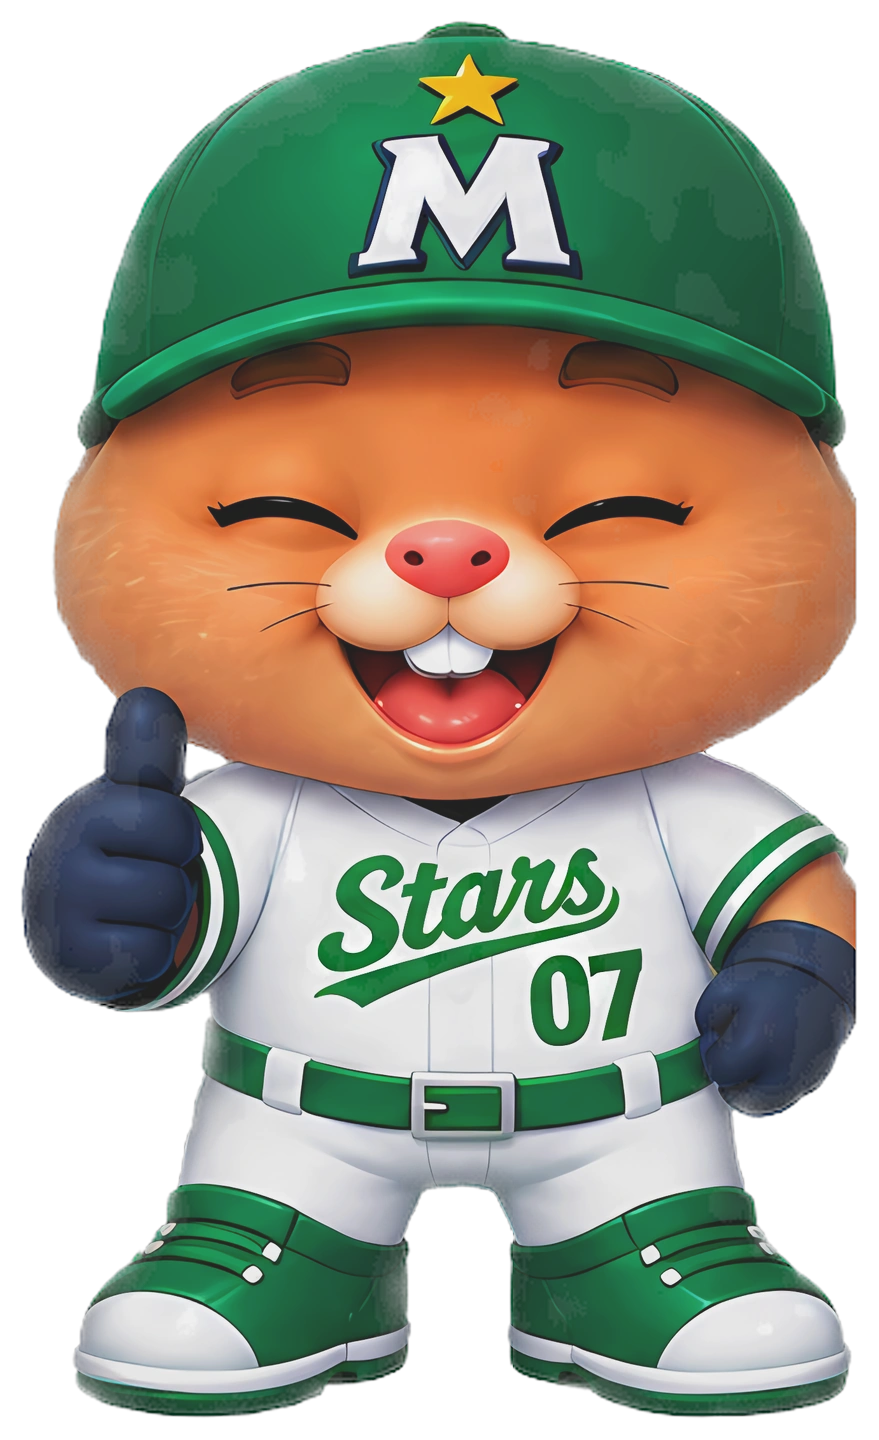
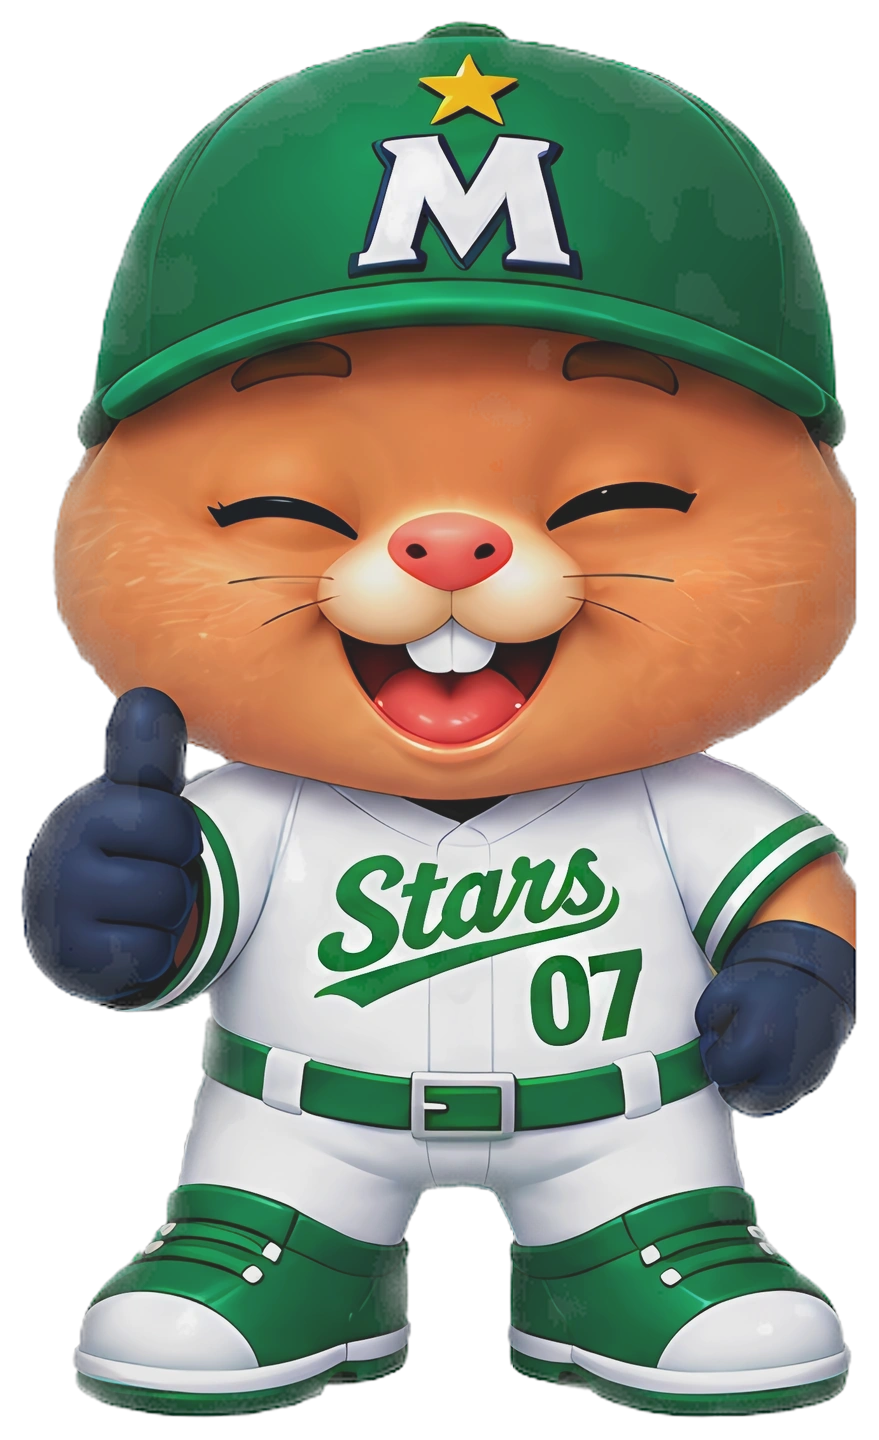
V1406 C: home HD art, selected button on top, workshop fixes, photo HD
- Home: selected mail/settings/items button draws above game boxes
- Home mine art and moles upscaled (Real-ESRGAN, originals kept)
- Stars blink: only the open eye closes (no face jump)
- Workshop: King Punch flipped, cannon recoil, gold Mjolnir spin, costume HD
- Photo studio characters HD (display only)

Claude-Session: https://claude.ai/code/session_01EVXCKBYQFqBEf1u42ToLZp

Changed region(s): [[0.2765, 0.3125, 0.7986, 0.4688], [0.6143, 0.25, 0.6758, 0.2812], [0.3379, 0.25, 0.3993, 0.2812]]

diff --git a/mole/index.html b/mole/index.html
@@ -376,7 +376,7 @@
              하늘은 직접 제작(sky.jpg), 광산·로고·두더지는 바탕화면 "홈화면 개편 UI 및 에셋". -->
         <div id="home-mine" aria-hidden="true">
           <div class="hm-stage">
-            <img class="hm-mine" src="assets/home2/mine.png" alt="">
+            <img class="hm-mine" src="assets/home2/mine-hd.webp" alt="">
             <i class="hm-glow" style="left:3.1%;top:42.3%;--d:0s;--t:2.3s"></i>
             <i class="hm-glow" style="left:10.8%;top:43.5%;--d:0.7s;--t:2.9s"></i>
             <i class="hm-glow" style="left:21.5%;top:35.4%;--d:1.3s;--t:2.1s"></i>
@@ -388,11 +388,11 @@
             <i class="hm-glow" style="left:89.6%;top:31.0%;--d:0.9s;--t:2.4s"></i>
             <i class="hm-glow" style="left:97.6%;top:55.4%;--d:1.4s;--t:3.0s"></i>
             <i class="hm-glow" style="left:21.5%;top:82.9%;--d:0.5s;--t:2.5s"></i>
-            <div class="hm-piece hm-mole hm-pink"><div class="hm-pop"><img class="hm-body" src="assets/home2/mole-pink-x.png" alt=""><i class="hm-lid" style="left:32.12%;top:41.67%;width:11.16%;height:18.23%;--fur:#cf6a35;animation-delay:0.3s"></i><i class="hm-lid" style="left:59.71%;top:41.67%;width:12.22%;height:18.23%;--fur:#cf6a35;animation-delay:0.3s"></i></div></div>
-            <div class="hm-piece hm-mole hm-braid"><div class="hm-pop"><img class="hm-body" src="assets/home2/wave-braid-base.png" alt=""><img class="hm-hand" src="assets/home2/wave-braid-part.png" alt=""><i class="hm-lid" style="left:28.17%;top:32.3%;width:11.54%;height:14.26%;--fur:#cd6734;animation-delay:2.1s"></i><i class="hm-lid" style="left:52.08%;top:34.87%;width:9.48%;height:14.79%;--fur:#cd6734;animation-delay:2.1s"></i></div></div>
-            <div class="hm-piece hm-mole hm-sun"><div class="hm-pop"><img class="hm-body" src="assets/home2/wave-sun-base.png" alt=""><img class="hm-hand" src="assets/home2/wave-sun-part.png" alt=""></div></div>
-            <div class="hm-piece hm-mole hm-punk"><div class="hm-pop"><img class="hm-body" src="assets/home2/mole-punk-x.png" alt=""><i class="hm-lid" style="left:25.13%;top:44.15%;width:13.34%;height:16.37%;--fur:#f08542;animation-delay:1.2s"></i><i class="hm-lid" style="left:63.31%;top:48.07%;width:14.20%;height:15.56%;--fur:#f08542;animation-delay:1.2s"></i></div></div>
-            <div class="hm-piece hm-mole hm-cap"><div class="hm-pop"><img class="hm-body" src="assets/home2/wave-cap-base.png" alt=""><img class="hm-hand" src="assets/home2/wave-cap-part.png" alt=""><i class="hm-lid" style="left:34.80%;top:32.93%;width:19.48%;height:20.88%;--fur:#e6773a;animation-delay:3.0s"></i></div></div>
+            <div class="hm-piece hm-mole hm-pink"><div class="hm-pop"><img class="hm-body" src="assets/home2/mole-pink-x-hd.webp" alt=""><i class="hm-lid" style="left:32.12%;top:41.67%;width:11.16%;height:18.23%;--fur:#cf6a35;animation-delay:0.3s"></i><i class="hm-lid" style="left:59.71%;top:41.67%;width:12.22%;height:18.23%;--fur:#cf6a35;animation-delay:0.3s"></i></div></div>
+            <div class="hm-piece hm-mole hm-braid"><div class="hm-pop"><img class="hm-body" src="assets/home2/wave-braid-base-hd.webp" alt=""><img class="hm-hand" src="assets/home2/wave-braid-part-hd.webp" alt=""><i class="hm-lid" style="left:28.17%;top:32.3%;width:11.54%;height:14.26%;--fur:#cd6734;animation-delay:2.1s"></i><i class="hm-lid" style="left:52.08%;top:34.87%;width:9.48%;height:14.79%;--fur:#cd6734;animation-delay:2.1s"></i></div></div>
+            <div class="hm-piece hm-mole hm-sun"><div class="hm-pop"><img class="hm-body" src="assets/home2/wave-sun-base-hd.webp" alt=""><img class="hm-hand" src="assets/home2/wave-sun-part-hd.webp" alt=""></div></div>
+            <div class="hm-piece hm-mole hm-punk"><div class="hm-pop"><img class="hm-body" src="assets/home2/mole-punk-x-hd.webp" alt=""><i class="hm-lid" style="left:25.13%;top:44.15%;width:13.34%;height:16.37%;--fur:#f08542;animation-delay:1.2s"></i><i class="hm-lid" style="left:63.31%;top:48.07%;width:14.20%;height:15.56%;--fur:#f08542;animation-delay:1.2s"></i></div></div>
+            <div class="hm-piece hm-mole hm-cap"><div class="hm-pop"><img class="hm-body" src="assets/home2/wave-cap-base-hd.webp" alt=""><img class="hm-hand" src="assets/home2/wave-cap-part-hd.webp" alt=""><i class="hm-lid" style="left:34.80%;top:32.93%;width:19.48%;height:20.88%;--fur:#e6773a;animation-delay:3.0s"></i></div></div>
             <i class="hm-spk" style="left:4.2%;top:78.6%;--d:0s"></i>
             <i class="hm-spk" style="left:8.6%;top:80.4%;--d:0.6s"></i>
             <i class="hm-spk" style="left:6.0%;top:83.0%;--d:1.2s"></i>
@@ -1107,7 +1107,7 @@
         <!-- 배포 버전 표식(스크린샷으로 어느 버전인지 확인용) — 화면 좌하단에 두면 다른 UI에
              가려 잘 안 보인다는 사용자 지적으로, 하트 아이콘(다이얼패드 1번 칸) 바로 위로 이동. -->
         <div class="h2-preload" aria-hidden="true"></div><!-- v951: 게임 중 버튼 색(초록·노랑·빨강·분홍·회색) 미리 읽어 두기 — 처음 바뀔 때 깜빡임 방지 -->
-        <div id="build-tag" aria-hidden="true">V 1405 C</div>
+        <div id="build-tag" aria-hidden="true">V 1406 C</div>
         <!-- 피버타임(터치캐치 보너스타임) 전광판 — 버튼보드 자리를 통째로 덮는 오버레이,
              평소엔 hidden, 피버 중에만 콤보/잔여시간 표시(사용자 지정: "전광판처럼"). -->
         <div id="fever-scoreboard" class="fever-scoreboard" hidden>
@@ -1384,7 +1384,7 @@ window.FGH.rollOut = function (el, done) {
       } else {
         // ?v= 로 매 배포마다 URL을 바꿔서 GitHub Pages의 sw.js 캐시(max-age=600)를 무조건 우회 —
         // 안 그러면 배포 직후에도 최대 10분간 옛 서비스워커가 안 갈리는 경우가 있었음(사용자 보고).
-        navigator.serviceWorker.register('sw.js?v=1405-C').catch(function () {});
+        navigator.serviceWorker.register('sw.js?v=1406-C').catch(function () {});
       }
     });
   }

diff --git a/mole/style.css b/mole/style.css
@@ -1773,6 +1773,7 @@ body { background: var(--lm-page); }
 /* 해당 화면에 진입해 있는 동안 그 버튼만 확대·위로 살짝 튀어나옴(애니팡 하단 네비 참고,
    사용자 지정) — 홈으로 돌아오면(setActiveNav(null)) transition 으로 자연스럽게 원위치. */
 .lane-button--nav-active { transform: scale(1.5); z-index: 2; }
+#game-screen.is-start .lane-button--nav-active { z-index: 6; } /* V1406 C 사용자: 홈에서 메일함·설정·아이템 고르면 커진 버튼이 아래 리듬팡·두더지팡 박스(z 1·2·4)보다 앞에 */
 .lane-button--nav-active .lane-lbl { color: #1f1f24; font-weight: 800; }
 .lane-ico { width: clamp(16px, 6vw, 24px); height: clamp(16px, 6vw, 24px); display: block; }
 /* 홈 버튼 = 홈 화면일 때만(lane-button--nav-active) 아이콘을 박스 내부 90%까지 확대(사용자 지정,
@@ -8737,6 +8738,12 @@ img { -webkit-touch-callout: none; -webkit-user-drag: none; user-select: none; }
   52% { transform: scale(1.3) rotate(0deg); }
 }
 @media (prefers-reduced-motion: reduce) { .ws-item img[src*="w-alipunch"], .ws-stage img[src*="w-alipunch"] { animation: none; } }
+/* V1406 C 사용자: 제작소 캐논 = 살짝 작아졌다 커지는 반동, 골드 묠니르 = 360도 회전(좌우로 도는 회전) */
+.ws-item img[src*="w-cannon"], .ws-stage img[src*="w-cannon"] { transform-origin: 50% 85%; animation: ws-cannon-recoil 1.4s ease-out infinite; }
+@keyframes ws-cannon-recoil { 0%, 55%, 100% { transform: scale(1); } 8% { transform: scale(.88, .84); } 20% { transform: scale(1.06, 1.08); } 32% { transform: scale(.98); } 42% { transform: scale(1.01); } }
+.ws-item img[src*="w-goldhammer"], .ws-stage img[src*="w-goldhammer"] { animation: ws-gold-spin 3s linear infinite; }
+@keyframes ws-gold-spin { from { transform: scale(0.9) perspective(600px) rotateY(0deg); } to { transform: scale(0.9) perspective(600px) rotateY(360deg); } }
+@media (prefers-reduced-motion: reduce) { .ws-item img[src*="w-cannon"], .ws-stage img[src*="w-cannon"], .ws-item img[src*="w-goldhammer"], .ws-stage img[src*="w-goldhammer"] { animation: none; } }
 /* V1401 C 사용자: 스킬 칸 — 금색 스킬 테두리(대각선 2칸) 삭제 → 위 다이얼 버튼과 같은 테두리(btn-frame) + 안쪽 진한 파랑 바탕, 가운데 입체감 있는 큰 원 1개(스킬 아이콘 자리).
    칸마다 원 1개: 캐논·골드 = 오른쪽 아래 1칸, 킹 판취 = ✱ 칸 + 오른쪽 아래 칸 = 2개(무기 설명 '스킬 장착' 개수와 같음). 두 번째 원(slot 1)은 숨김. */
 #game-screen.gs-laneskill:not(.is-start) .lane-button--call .lane-items::before, #game-screen.gs-alipunch:not(.is-start) [data-region="12"] .lane-items::before { inset: 0; background: none; border-style: solid; border-color: transparent; border-width: 15px; border-image: url('assets/home2/btn-frame-sky.png') 160 / 15px stretch; } /* 사용자: 다이얼 버튼과 같은 하늘색 테두리 */

diff --git a/mole/sw.js b/mole/sw.js
@@ -3,7 +3,7 @@
 // 폴백 전용으로만 갱신한다. (예전엔 stale-while-revalidate라 배포해도 "다음 실행"에야
 // 반영돼 사용자 체감 대기가 길었음 — 온라인=항상 최신, 오프라인=마지막 캐시로 변경.)
 // SHELL 목록 자체가 바뀔 때만 CACHE 를 올린다.
-const CACHE = 'mole-game-v1405-C';
+const CACHE = 'mole-game-v1406-C';
 
 // 화면별 BGM(audio/bgm-*.mp3)은 v275 부터 SHELL 에 포함 — 기본 켜짐(v272)이라 항상 필요하고,
 // 캐시가 안 돼 있으면 오프라인/느린망에서 재생 실패했음.
@@ -429,6 +429,15 @@ const SHELL = [
   './assets/photo/pedestal_gold.png',
   './assets/photo/collection-trophy.png',
   './assets/photo/collection-starbar.png',
+  './assets/photo/characters/round_blue_bears-hd.webp',
+  './assets/photo/characters/round_mount_stars-hd.webp',
+  './assets/photo/characters/round_cloud_cups-hd.webp',
+  './assets/photo/characters/sturdy_blue_bears-hd.webp',
+  './assets/photo/characters/sturdy_mount_stars-hd.webp',
+  './assets/photo/characters/sturdy_cloud_cups-hd.webp',
+  './assets/photo/characters/sharp_blue_bears-hd.webp',
+  './assets/photo/characters/sharp_mount_stars-hd.webp',
+  './assets/photo/characters/sharp_cloud_cups-hd.webp',
   './assets/photo/characters/round_blue_bears.png',
   './assets/photo/characters/sturdy_blue_bears.png',
   './assets/photo/characters/sharp_blue_bears.png',

diff --git a/mole/js/face-studio.js b/mole/js/face-studio.js
@@ -335,7 +335,7 @@
     // v782(사용자 지정): 좌우 화살표 = 카드가 한 장씩 옆으로 이동(전체 5팀×3얼굴형 15장을 한 줄로 이어 붙인 목록,
     // 가운데 금색 발판 카드가 현재 선택). 엠블럼을 누르면 그 팀 가운데 카드로 이동.
     var cpos = 1; // 0..14
-    function cardSrc(k) { k = (k + NCARD) % NCARD; return 'assets/photo/characters/' + FACE_ORDER[k % 3] + '_' + COSTUME_ORDER[Math.floor(k / 3)] + '.png'; }
+    function cardSrc(k) { k = (k + NCARD) % NCARD; return 'assets/photo/characters/' + FACE_ORDER[k % 3] + '_' + COSTUME_ORDER[Math.floor(k / 3)] + '-hd.webp'; } // V1406 C: 보여주기용 확대 그림(합성은 원본 .png 좌표 그대로)
     function renderCostume() {
       st.costume = Math.floor(((cpos % NCARD) + NCARD) % NCARD / 3);
       var cid = COSTUME_ORDER[st.costume];

diff --git a/mole/js/lane-controls.js b/mole/js/lane-controls.js
@@ -92,7 +92,7 @@
   }
   function h2Wide(kind, lblKey, lblTxt) { // ✱ = 두더지팡(노랑), 0 = 리듬팡(보라) — 홈에선 두 칸 반씩 넓게
     return '<span class="lane-face lane-face--front lane-face--wide h2w-' + kind + '">' +
-      '<img class="h2w-char" src="' + H2 + (kind === 'mole' ? 'char-mole' : 'char-rhythm') + '.png" alt="">' +
+      '<img class="h2w-char" src="' + H2 + (kind === 'mole' ? 'char-mole' : 'char-rhythm') + '-hd.webp" alt="">' +
       (kind === 'rhythm' ? '<img class="h2w-note" src="' + H2 + 'ic-note.png" alt="">' : '<img class="h2w-note h2w-heart" src="' + H2 + 'ic-heart.png" alt="">') + // V1361 C 사용자: 두더지팡 빈자리 하트(리듬팡 음표 자리와 같음)
       '<span class="h2-lbl h2w-lbl"' + (lblKey ? ' data-i18n="' + lblKey + '"' : '') + '>' + lblTxt + '</span></span>';
   }

diff --git a/mole/js/workshop.js b/mole/js/workshop.js
@@ -69,7 +69,7 @@
     if (kind === 'weapon') return WEAPONS;
     // v784(사용자 지정): 5팀 전부 표시(미보유 = 클라우드 컵스 등도 목록에 — 합성은 보유해야 가능)
     return MG.CostumeTeams.teams().map(function (t) {
-      return { id: t.id, ko: t.nameKo, en: t.nameEn, owned: MG.CostumeTeams.owns(t.id), img: 'assets/costume/char-' + t.id + '-detail.png', done: 'assets/costume/char-' + t.id + '-detail.png' };
+      return { id: t.id, ko: t.nameKo, en: t.nameEn, owned: MG.CostumeTeams.owns(t.id), img: 'assets/costume/char-' + t.id + '-v1406.webp', done: 'assets/costume/char-' + t.id + '-v1406.webp' }; // V1406 C 사용자: 확대 그림
     });
   }
   function nameOf(it) { return root.FGH.I18N.lang === 'en' ? it.en : it.ko; }

diff --git a/mole/js/photo-studio.js b/mole/js/photo-studio.js
@@ -137,7 +137,7 @@
   function imageFor(id) {
     var u = null;
     try { u = localStorage.getItem(K_IMG + id); } catch (e) { u = null; }
-    return u || ('assets/photo/characters/' + id + '.png');
+    return u || ('assets/photo/characters/' + id + '-hd.webp'); // V1406 C: 확대 그림
   }
 
   // 개별 캐릭터 효과(§17) — 등장한 캐릭터 하나의 효과만 적용, 중첩 없음.

diff --git a/AGENTS.md b/AGENTS.md
@@ -1,3 +1,8 @@
+## 2026-10-23 / V1406 C — 홈: 고른 버튼이 아래 게임 박스보다 앞
+- 제작소: 킹 판취 좌우 바로잡음(그림 거울), 캐논 = 좌우 흔들기 대신 작아졌다 커지는 반동(ws-cannon-recoil), 골드 묠니르 = 360도 회전(rotateY, ws-gold-spin), 코스튬 강화 그림 = char-*-v1406(확대). 사진관 캐릭터 9장 Real-ESRGAN ×3 → *-hd.webp(보여주기만, 얼굴 합성은 원본 .png 좌표 그대로). 홈 광산 두더지 확대본 가장자리 = 원본과 알파 차이 0.06% 이하(예전 잘림 보정 그대로). 사용자: 광산 두더지 애니메이션은 나중에 교체 예정.
+- 사용자 '두더지 선명도 떨어짐': 홈 그림 원본이 폰(3배 화면)보다 작았음 → Real-ESRGAN x4plus-anime 로 mine(×2)·char-mole·char-rhythm·mole-pink/punk-x·wave-*-base/part(×3) 를 *-hd.webp 로(원본 .png 보존, 비율 그대로라 위치 동일). 스타즈 깜빡임 번쩍 = 눈 감은 그림이 코·입·수염까지 달라 얼굴이 튐 → 뜬 왼눈만 털색 맞춰 교체.
+- 사용자: 홈에서 메일함·설정·아이템 고르면 커진(1.5배) 버튼이 리듬팡·두더지팡 박스 뒤로 깔림 → #game-screen.is-start .lane-button--nav-active z-index 6(박스 z 1·2·4).
+
 ## 2026-10-23 / V1405 C — 킹 판취 ✱ 스킬 칸 사라짐 버그 + 타겟팅 콤보 + AI 스킬 (로컬·미배포)
 - 사용자 캡처(영어→한글 바꾼 뒤 ✱ 칸 통째로 빈칸)로 원인 확정 = 아래 언어 다시 그리기.
 - 타겟팅 '콤보 깨지면 안 됨': 역할반전 라운드(6)에서 두더지(=방해물)를 골라 콤보 깨짐 → liveTargetAt(진짜 타겟만). 조준 중 0.95초 그 구멍 탭 무시(quakePending 공용). 실측: 예전 8번 중 5번 두더지 선택 → 수정 후 동물.
